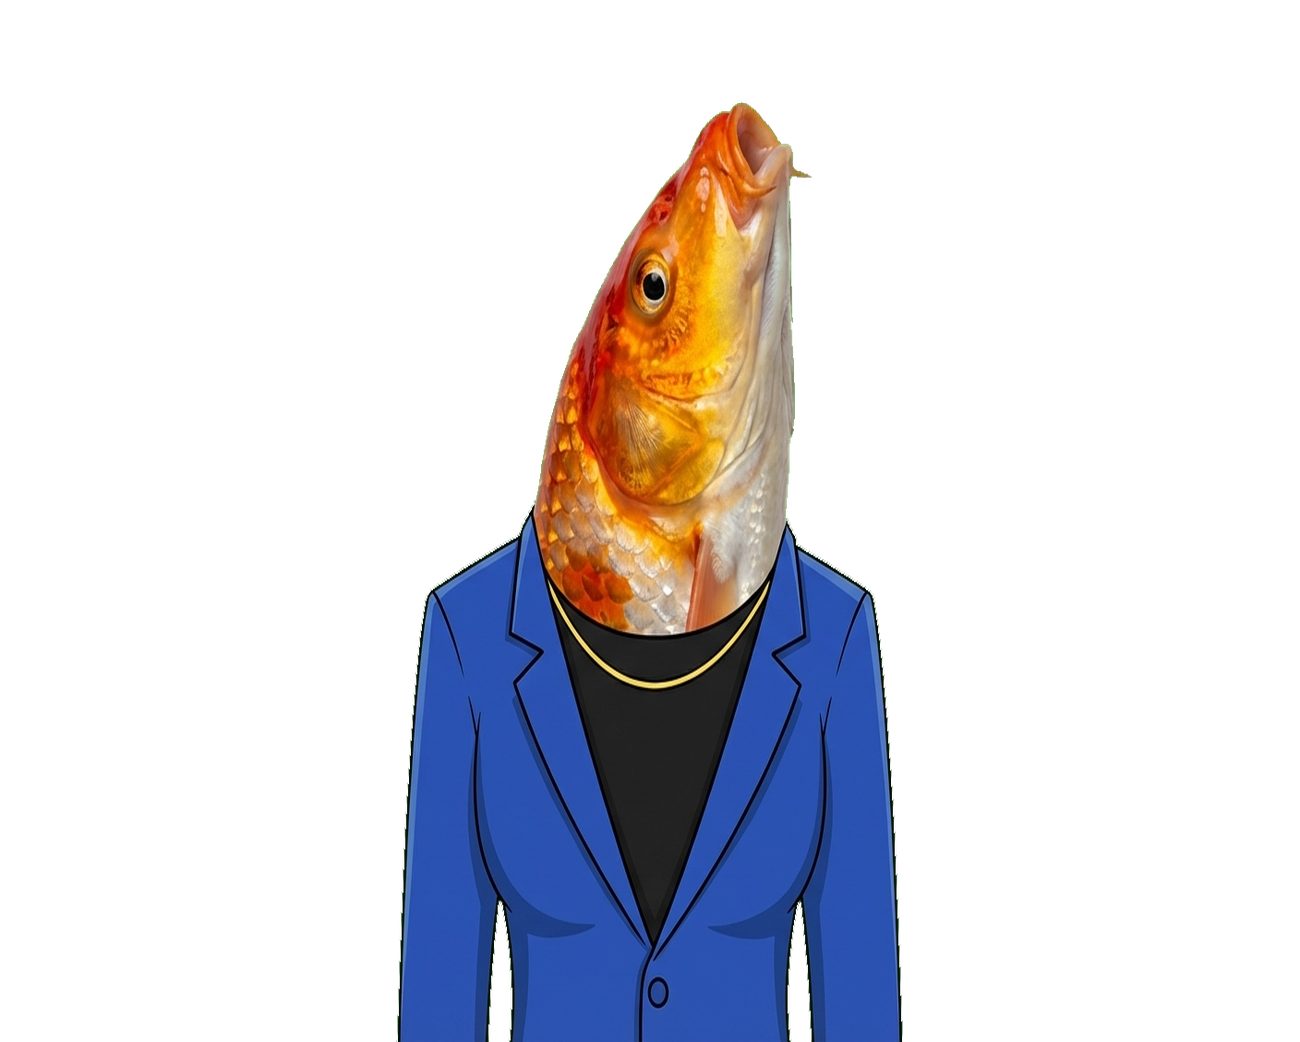
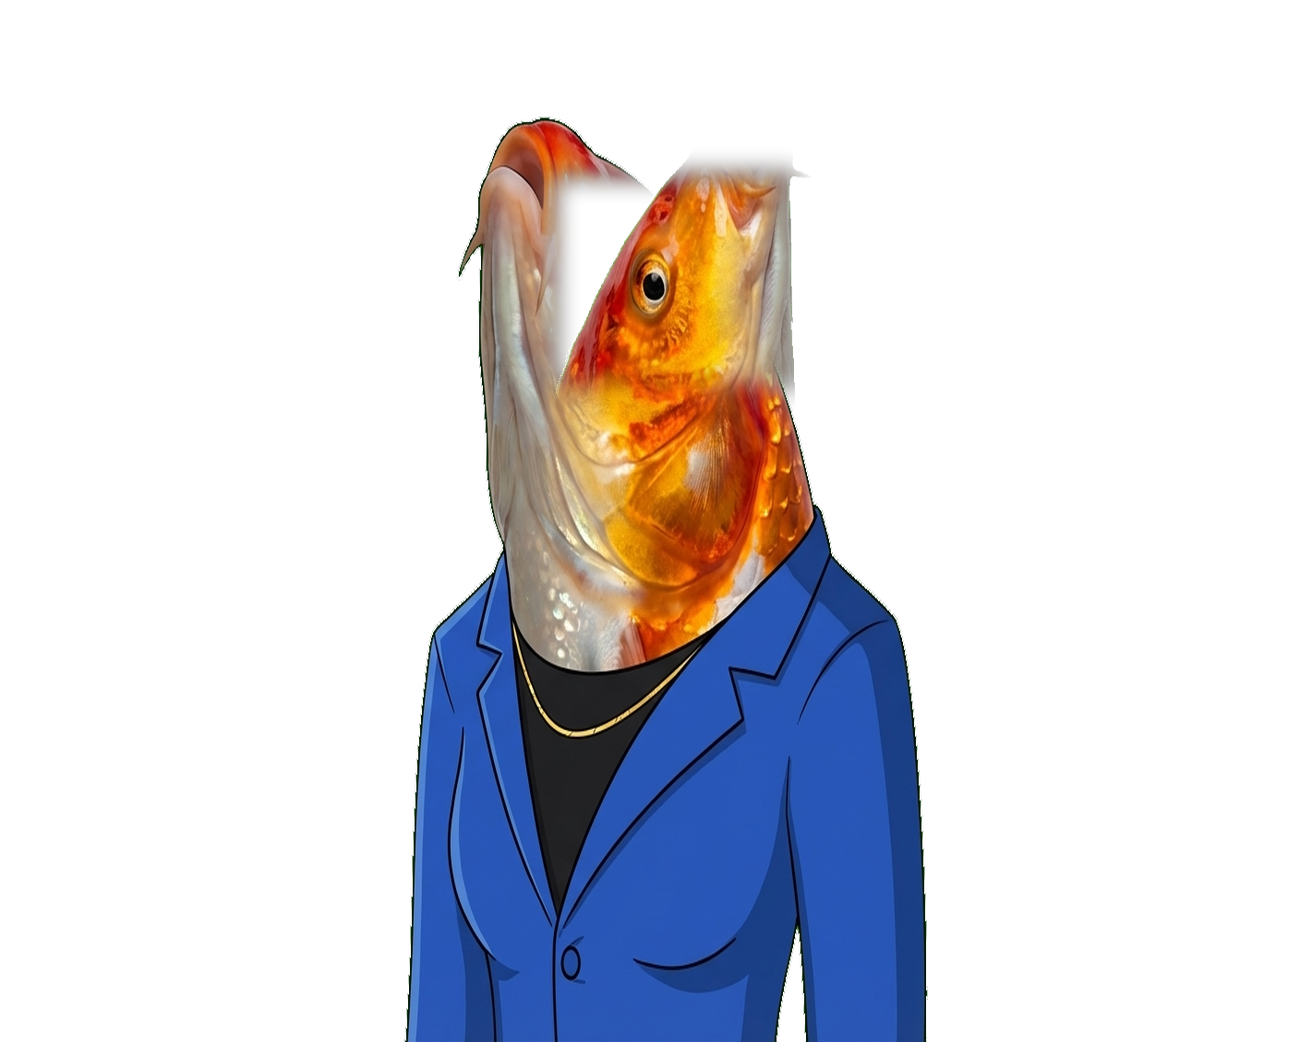
Fix mouth flicker: composite only mouth region from open-mouth frame onto closed base
Instead of swapping between two independently generated frames (which differ
in body/head/necklace), detect the mouth-area pixel diff and blend only that
region onto the mouth_0 base with feathered edges. Everything outside the
mouth stays pixel-identical between frames.

Made-with: Cursor

Changed region(s): [[0.3077, 0.0921, 0.7385, 1.0]]

diff --git a/scripts/generate_pufferfish_anchor.py b/scripts/generate_pufferfish_anchor.py
@@ -220,6 +220,78 @@ def _ensure_consistent_direction(frames: dict[int, Image.Image]) -> dict[int, Im
     return frames
 
 
+def _composite_mouth_region(base: Image.Image, open_mouth: Image.Image, feather_px: int = 12) -> Image.Image:
+    """Create an open-mouth frame by blending only the mouth region onto the base.
+
+    Computes the pixel difference between base (closed) and open_mouth,
+    finds the largest contiguous difference region (the mouth), creates a
+    feathered mask around it, and composites only that area from open_mouth
+    onto the base. Everything else (body, eye, suit) stays pixel-identical
+    to the base.
+    """
+    import numpy as np
+    from PIL import ImageFilter
+
+    base_arr = np.array(base.convert("RGBA"), dtype=np.float32)
+    open_arr = np.array(open_mouth.convert("RGBA"), dtype=np.float32)
+
+    if base_arr.shape != open_arr.shape:
+        open_mouth_resized = open_mouth.resize(base.size, Image.LANCZOS)
+        open_arr = np.array(open_mouth_resized.convert("RGBA"), dtype=np.float32)
+
+    diff = np.abs(base_arr[:, :, :3] - open_arr[:, :, :3]).mean(axis=2)
+
+    both_visible = (base_arr[:, :, 3] > 30) & (open_arr[:, :, 3] > 30)
+    diff[~both_visible] = 0
+
+    h, w = diff.shape
+
+    threshold = max(np.percentile(diff[both_visible], 85), 25) if both_visible.any() else 25
+    significant = diff > threshold
+
+    top_region = np.zeros_like(significant)
+    top_region[:int(h * 0.35), :] = True
+    mouth_mask = significant & top_region
+
+    if mouth_mask.sum() < 50:
+        print("    WARNING: Very small mouth diff detected, expanding search region")
+        mouth_mask = significant & np.ones_like(significant, dtype=bool)
+        mouth_mask[int(h * 0.5):, :] = False
+
+    if mouth_mask.sum() < 10:
+        print("    WARNING: No significant mouth region found, returning open_mouth as-is")
+        return open_mouth
+
+    rows_with_diff = np.where(mouth_mask.any(axis=1))[0]
+    cols_with_diff = np.where(mouth_mask.any(axis=0))[0]
+
+    pad = 20
+    y_min = max(0, rows_with_diff[0] - pad)
+    y_max = min(h, rows_with_diff[-1] + pad)
+    x_min = max(0, cols_with_diff[0] - pad)
+    x_max = min(w, cols_with_diff[-1] + pad)
+
+    mask_img = Image.new("L", (w, h), 0)
+    from PIL import ImageDraw
+    draw = ImageDraw.Draw(mask_img)
+    draw.rectangle([x_min, y_min, x_max, y_max], fill=255)
+
+    mask_img = mask_img.filter(ImageFilter.GaussianBlur(radius=feather_px))
+
+    mask_arr = np.array(mask_img, dtype=np.float32) / 255.0
+
+    result = base_arr.copy()
+    for c in range(4):
+        result[:, :, c] = base_arr[:, :, c] * (1 - mask_arr) + open_arr[:, :, c] * mask_arr
+
+    region_h = y_max - y_min
+    region_w = x_max - x_min
+    print(f"    Mouth region: ({x_min},{y_min})-({x_max},{y_max}) = {region_w}x{region_h}px, "
+          f"feather={feather_px}px, diff_pixels={mouth_mask.sum()}")
+
+    return Image.fromarray(result.clip(0, 255).astype(np.uint8), "RGBA")
+
+
 def backup_existing_assets():
     """Copy current mouth frames to a backup directory."""
     if BACKUP_DIR.exists():
@@ -321,10 +393,21 @@ def generate_mouth_frames():
     print("\nStep 3: Ensuring consistent facing direction...")
     generated_frames = _ensure_consistent_direction(generated_frames)
 
+    if 0 in generated_frames:
+        print("\nStep 4: Compositing mouth regions onto base frame...")
+        for idx in sorted(generated_frames.keys()):
+            if idx == 0:
+                continue
+            print(f"  Compositing mouth_{idx} onto mouth_0 base...")
+            generated_frames[idx] = _composite_mouth_region(
+                base=generated_frames[0],
+                open_mouth=generated_frames[idx],
+            )
+
     for idx, img in generated_frames.items():
         out_path = MOUTH_DIR / f"mouth_{idx}.png"
         img.save(out_path, "PNG")
-        print(f"  Saved {out_path} (direction-corrected)")
+        print(f"  Saved {out_path} (final)")
 
     if len(generated_frames) < NUM_MOUTH_STATES:
         missing = [i for i in range(NUM_MOUTH_STATES) if i not in generated_frames]
